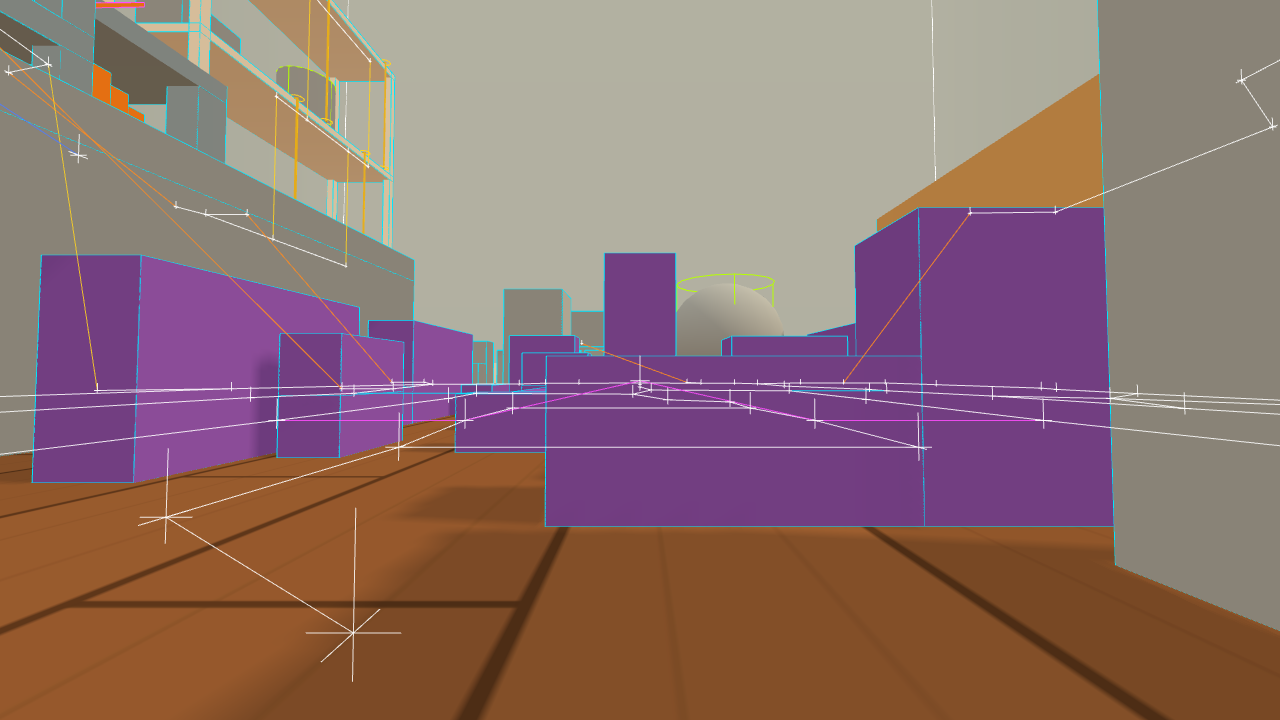
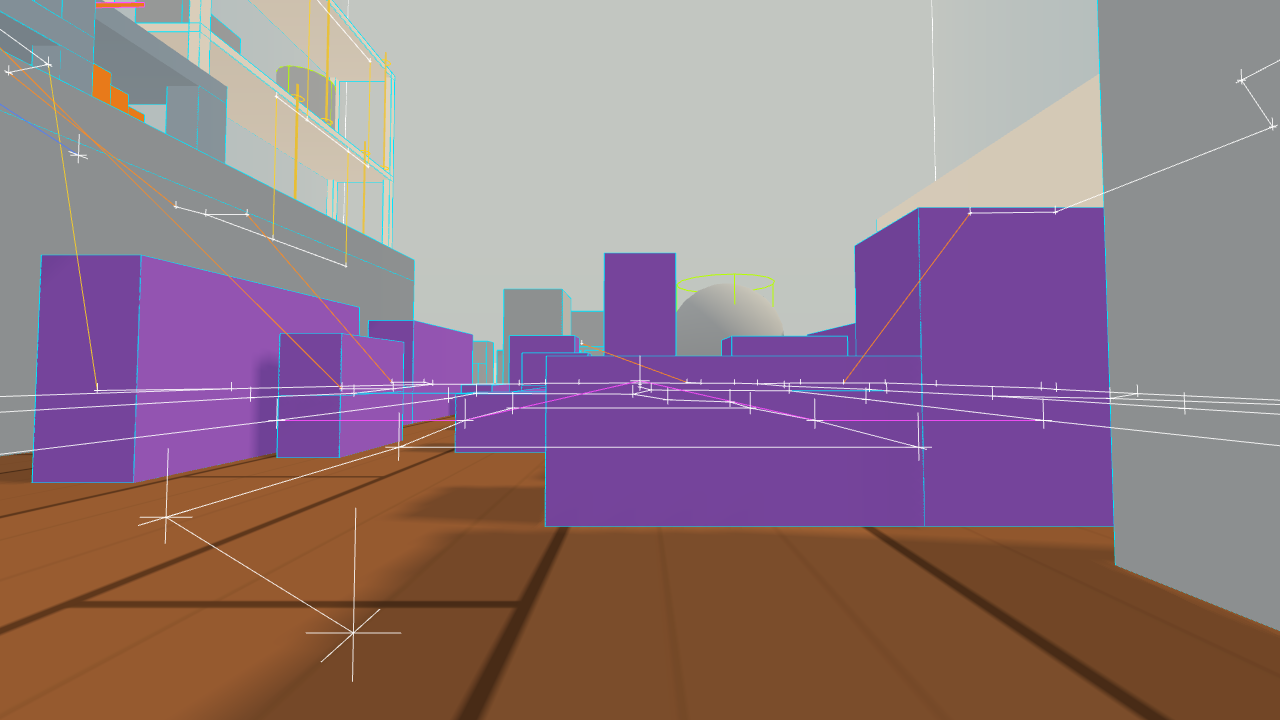
Record Round 1 pass 1 results and the ruler-prop design change
Claude-Session: https://claude.ai/code/session_01JNcTgQhGiWa2cD86NUYwZY

diff --git a/bedroom-battalion/CHANGELOG.md b/bedroom-battalion/CHANGELOG.md
@@ -122,3 +122,90 @@ The mirrored `ts2.b - ts2.c` edge is left out, as DESIGN 9.4 says it is replaced
 - The bed frame colour in direct sun reads orange-tan, close to the Tan squad colour.
 - Letting go of a shelf string drops you onto the book stairs below, which can be a long fall.
 - Below about 4 fps the real-time loop drops simulation time instead of catching up.
+
+## Round 1, pass 2 (FIXLIST.md round 1, pass 1)
+
+`index.html` is now 84,699 bytes, 354 colliders, 168 graph edges, 10,338 triangles, still 3 reported draw calls.
+Only the five FIXLIST items were touched. Scripts: `tests/builder_pass2.cjs`, `builder_lanes.cjs`,
+`builder_rulertrap.cjs`, plus the pass 1 scripts re-run.
+
+### Item 1: strings (fixed)
+
+- Topping out sets a forward lock (forward is ignored until released) and blocks re-grabbing that string for
+  `climb.topRegrab` = 0.5 s. `walkPath` releases forward for one tick after topping out.
+- Grabbing and letting go of a string both clear coyote time, so there is no jump in the air after letting go.
+- Measured: the BUGS 1 repro ends `climbing: false, onGround: true` at (108.6, 40, 130). Same for all six shelf
+  strings (y 40 or 60) and for the yo-yo and shoelace from under the desk and from outside (107, 26, 55.5 / 104.5).
+  Releasing, turning east and walking leaves the string behind. Walking back into a string from the top still grabs
+  it and S still descends. Second jump press 0 to 5 ticks after letting go: vy stays negative, no height gained.
+- Behaviour change to know about: approaching the yo-yo from the north and holding W used to carry you across the
+  desk; now you stop where you are placed until W is released, as DESIGN 4.4 now says.
+
+### Item 2: dead stops (a and b fixed, c built but its re-check still fails)
+
+- (a) Ground follow: a refused step-up no longer cancels the move. First the player is pushed out of whatever takes
+  the head room, as if already standing on the step; if that does not free the step, the step itself is treated as a
+  wall and the velocity slides along it. Position is held (velocity kept) only if both fail.
+- (b) Stair guards added exactly as DESIGN 4.3: `s.tall.guard` and `n.small.guard`.
+- (c) Seat stoppers added: `chair.stopper.s` at (92.2, 86.7) as DESIGN 4.2, **`chair.stopper.n` at (92.45, 73.3), not
+  (92.2, 73.3)**. At 92.2 the skateboard lanes x 92.25 to 92.35 were pushed east round the stopper, off the side of
+  the skateboard, and fell for 32.9 hp, and x 92.20 stopped dead against it; that includes the third BUGS 2 repro.
+  At 92.45 every skateboard lane that is on the ramp is pushed west onto the seat.
+- Measured: the three BUGS 2 repro calls reach the top (6.3 s, 6.3 s, 5.6 s). Lanes every 0.05: tall and small
+  stairs x 107.30 to 107.95 all reach L1 walking and sprinting; x 108.00 and above now meet the end of the guard at
+  floor level, which is an ordinary wall. Skateboard and chair stairs x 91.00 to 92.35 all end standing on the seat.
+  BUGS 3 (aim at the L1 node from the stair foot): reaches L1 at (107.6, 20, 124.1), no damage.
+  `tests/bug_05b_stair_trap.cjs`: all 16 cut-corner cases end "on L1", no damage.
+- **Not fixed: `tests/feel_ruler_trap.cjs` still shows 6 falls (21 to 32 hp) and 3 timeouts out of 15**, the same
+  pattern as before, and identical with the stopper at 92.2 or 92.45 (`builder_rulertrap.cjs` run against both).
+  The stoppers cannot change it: aiming at the ruler at z 71 or 68 walks the player back off the seat onto the
+  skateboard and then off the skateboard's east side under the ruler, north of the stopper; aiming at z 73.5 presses
+  the player against the ruler's side where it is 0.7 to 1.2 above the seat, which no rule lets them mount.
+  This needs a design change (for example closing the space under each ruler beside the skateboard and chair
+  stairs, or a longer ruler foot), not a builder tweak.
+- `tests/bug_05_targeted.cjs` can no longer finish: its section 8 walks lane x 108.2 up the tall stairs in a
+  `while` loop, and that lane is now stopped by the guard, so the loop never ends. I covered its sections 1 to 3
+  with the same calls in `builder_pass2.cjs` and `builder_lanes.cjs`. The bug tester needs to update that script.
+
+### Item 3: haze and light (fixed)
+
+- Fog 10 / 220; hemisphere `#FFF8EC` / `#D8CFC4` at 3.0; sun 3.0; bed frame `#E9E4DA`.
+- `CONFIG.camera` (fov, near, far) and `CONFIG.fog` are re-read on every render.
+- Measured from `spawn_green`: near wall pixel (178, 188, 188), far wall (212, 209, 198), ceiling (218, 208, 191).
+  Setting fog to 1 / 60 and fov to 40 through the hook changed the same pixels on the next render and restoring
+  them restored the pixels exactly. Screenshot looked at: walls pale blue, far wall paler, ceiling off-white.
+- Side effect: the off-white bed top in direct sun now clips to near white.
+
+### Item 4: strings and routes (fixed)
+
+- `climb.speed` 5.5, `move.airControl` 0.12. Strings are drawn `climb.drawAbove` = 2 above their top (collider
+  unchanged). Route colour is lapped `route.lap` = 1.5 onto the surface at the blanket slope, bed stairs,
+  skateboard, chair stairs, both rulers (on the desk), both ends of both bridges and both shelf stair heads.
+- Measured, sprinting from the Green spawn through the graph: desk by yo-yo 14.9 s, by small-shelf stairs and
+  bridge 17.4 s, by skateboard and ruler 16.0 s. A shelf string takes 4.3 s node to node.
+
+### Item 5: cover (fixed, with one graph change)
+
+- Added `n.W-c`, `s.W-c`, `n.E-c`; crayons are now 1.3 high and 1.3 deep as DESIGN 6.
+- **No node was moved. Edge `w.5 - ub.e` was removed on both halves instead.** W-c sits on that leg, and a search of
+  every position of `ub.e` and `w.5` within 2 units (0.1 grid) found none that clears W-c without blocking
+  `ub.e - m.ub`. `w.5` still reaches `ub.e` through `w.4`. `validateWaypoints()` returns `[]`.
+
+### Re-run after all changes
+
+| Check | Result |
+| --- | --- |
+| Load | `ready` true, `errors` empty in every script |
+| `validateWaypoints()` | `[]` |
+| 18 routes, walking and sprinting | all ok, end heights 18 / 26 / 20 / 40 / 60 / 8, no damage |
+| Every graph edge, both directions where two-way (332 walks) | all ok |
+| Random-input walkers, 56 simulated minutes | never outside the room or inside a solid, safety net never fired |
+| Real click, keys, backtick, Esc, resume | work |
+| Gate to gate sprint | 14.9 s straight, 16.9 s through the ruin (unchanged) |
+
+### What to re-test
+
+- Bug tester: BUGS 1, 2, 3 and 5; that walking into the guard ends and the stoppers from every side cannot trap
+  or drop you; strings downward from the top.
+- Feel tester: the ruler corner-cut (still failing, see item 2), the yo-yo against the stairs, haze.
+- Visual tester: wall, ceiling and bed colours; the sunlit bed top; route laps and string tops from above.

diff --git a/bedroom-battalion/DESIGN.md b/bedroom-battalion/DESIGN.md
@@ -109,7 +109,8 @@ No headboard (it would block the south route).
 | Open notebook | `99..111, 74..86, 26..26.4` (walkable) |
 | Stacked books | `111..119, 86..93`, three books 1.2 high each, each inset 0.6 (`y 26..29.6`) |
 | Pencil cup | cylinder (115.5, 98) r 2.6, `y 26..35` |
-| Seat stoppers (2) | cylinders r 0.5, `y 17..18`, at (92.2, 73.3) and (92.2, 86.7). They close the seat edge between each ramp head and ruler foot so cutting the corner cannot drop you off the seat |
+| Ruler props (2) | stacks of books filling the space under each ruler outside the seat: north `92.5..95.5, 64..73`, south `92.5..95.5, 87..96`, solid from the floor up to the ruler's underside (stepped boxes or one wedge). With these there is no gap to fall into beside the skateboard or the chair stairs |
+| Seat stoppers (2) | cylinders r 0.5, `y 17..18`, at (92.45, 73.3) and (92.2, 86.7) (north one moved by the builder so it does not push skateboard lanes off the board). They close the seat edge between each ramp head and ruler foot so cutting the corner cannot drop you off the seat |
 | Under desk | eraser `104..108, 66..68, 0..1.2` (mirrored); paper ball cylinder (108, 80) r 2.5, h 4.5 |
 
 Slab ramps are thin: solid only from the walking surface down by `thickness`. You can pass underneath

diff --git a/bedroom-battalion/FIXLIST.md b/bedroom-battalion/FIXLIST.md
@@ -39,3 +39,15 @@ before the round is closed.
 | Sun shadows cover only about 4 % of the floor; under the bed is as bright as open floor | VISUAL 3 | Round 4 (lighting) |
 | Cardboard colour moved away from Tan in the palette | VISUAL 1 | Round 4 (already in DESIGN) |
 | Tan's tall shelf is 20 units higher and sees more of the enemy half | FEEL | Round 5 (balance) |
+
+## Pass 2 (one item)
+
+Pass 1 result by the builder's own runs: items 1, 3, 4, 5 fixed; 2(a) and 2(b) fixed; 2(c) built but
+`feel_ruler_trap.cjs` still shows 6 falls and 3 timeouts, because the fall happens off the east side of the
+skateboard under the ruler, where a stopper cannot help.
+
+| # | Kind | Fix | Re-check |
+| --- | --- | --- | --- |
+| 2(c) | Feel, pillar 3 | Add the two ruler props (DESIGN 4.2): solid book stacks under each ruler outside the seat footprint, so there is no gap between the skateboard or chair stairs and the ruler. Keep the stoppers where they are now. Pressing into the ruler's side from the seat is allowed to slide and stop; it must not drop you. | `feel_ruler_trap.cjs`: no falls. All 18 routes and `validateWaypoints()` still clean |
+
+Graph change accepted: edge `w.5 - ub.e` removed on both halves (W-c sits on it).
